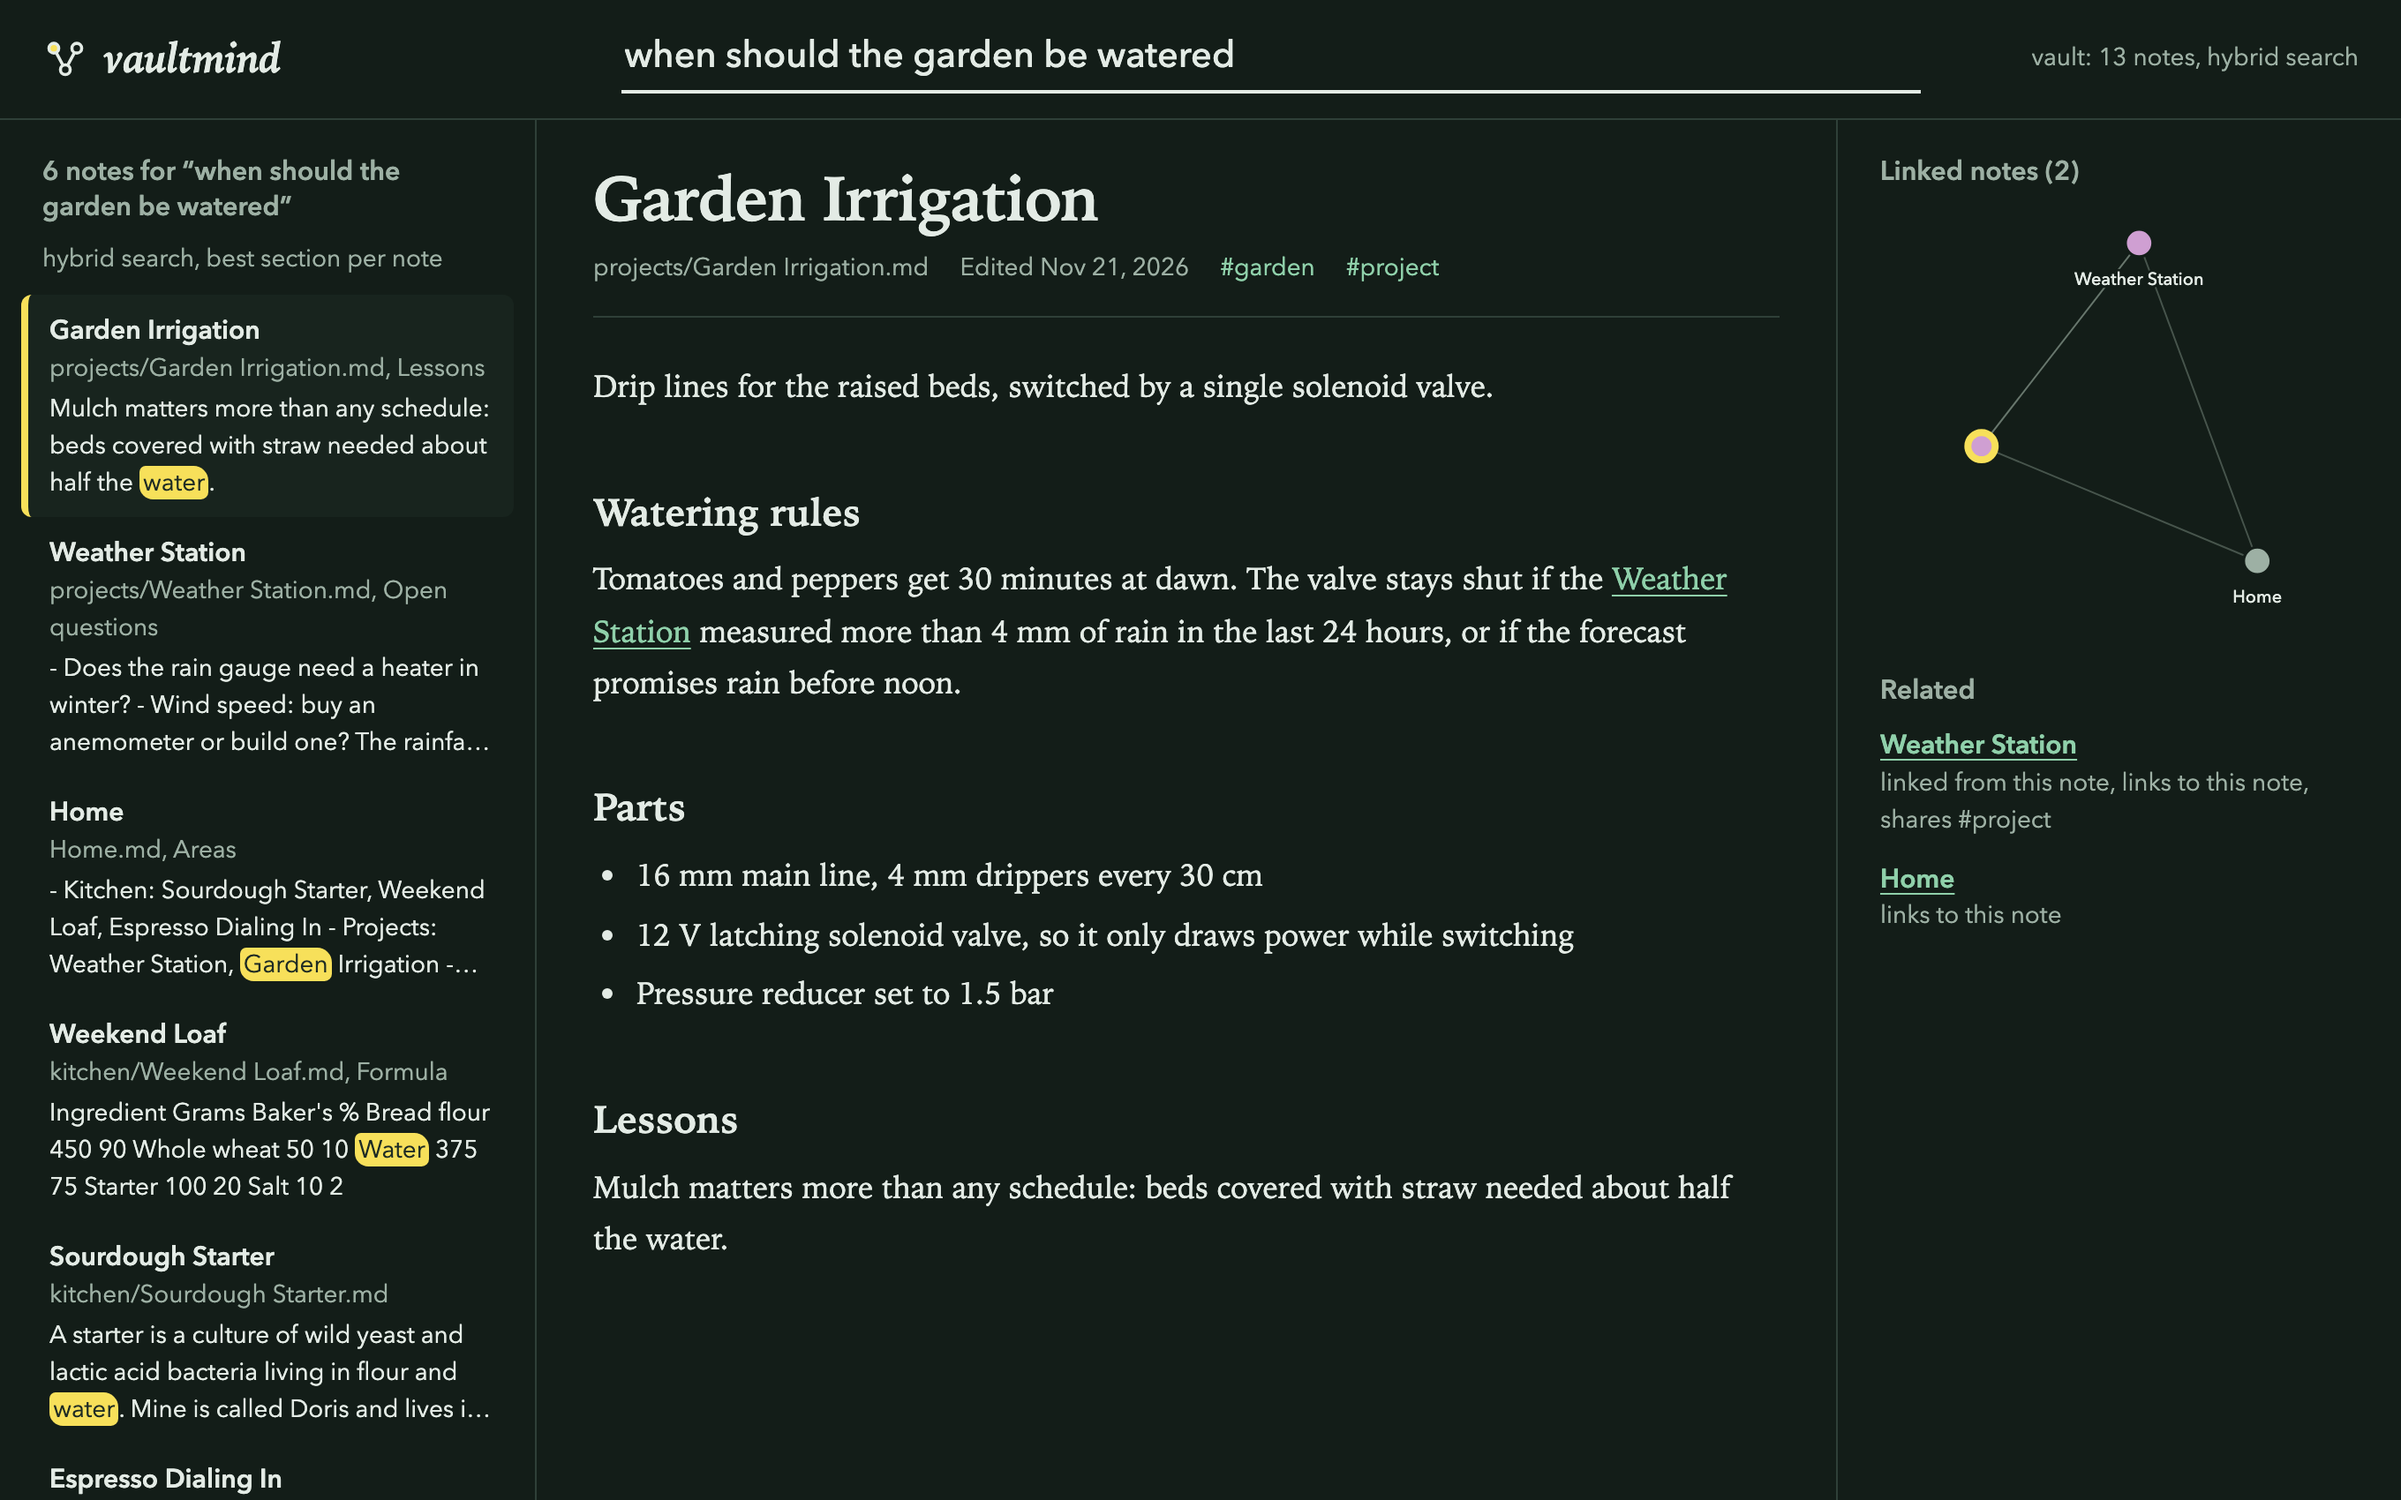
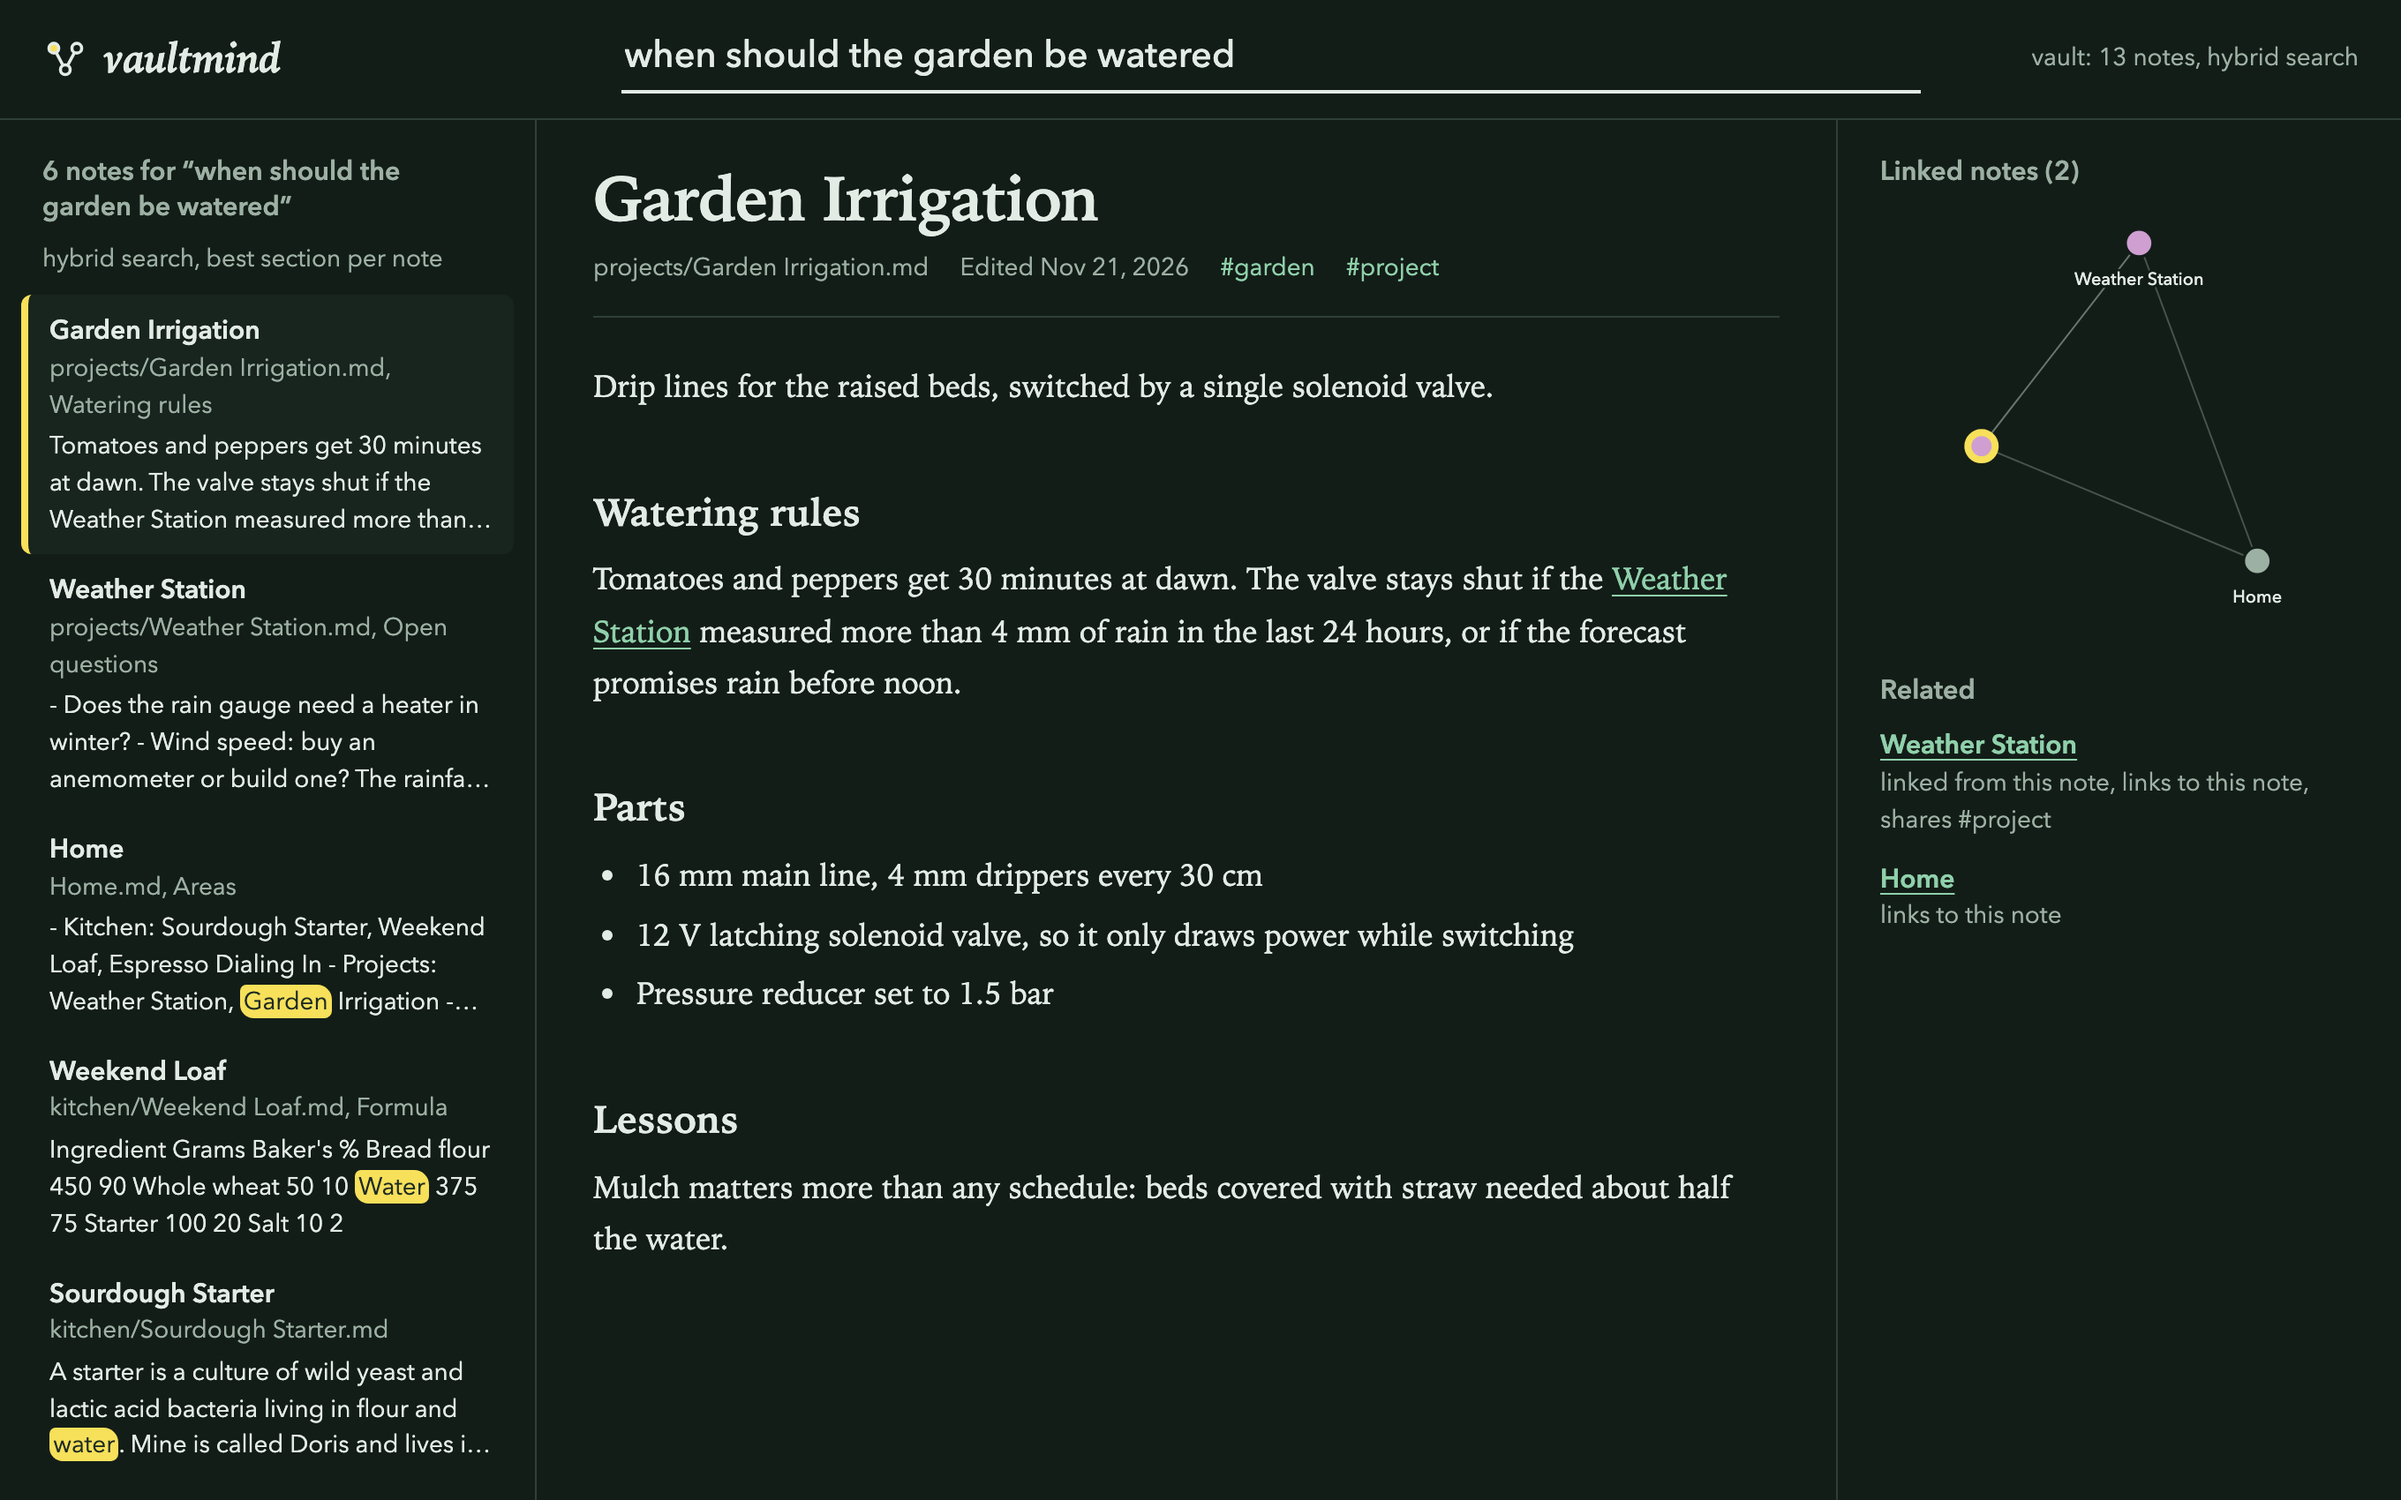
Break rank-fusion ties toward meaning; sync lockfile; clearer messages

Changed region(s): [[0.0, 0.2494, 0.2188, 0.9976]]

diff --git a/src/search.ts b/src/search.ts
@@ -112,12 +112,16 @@ export async function search(db: Db, query: string, options: SearchOptions = {})
   const { mode = "auto", limit = 10, offset = 0, prefix = false, embedder } = options;
   const semanticReady = Boolean(embedder) && hasEmbeddings(db);
   if (mode === "semantic" && !semanticReady) {
-    throw new Error("Semantic search is unavailable: the index has no embeddings. Run `vaultmind index` without --no-embed, or use keyword mode.");
+    throw new Error(
+      "Semantic search is unavailable right now: the embedding model is not loaded or the index has no embeddings yet. " +
+        'Use mode "auto" or "keyword", or run `vaultmind index` without --no-embed.',
+    );
   }
   const used: SearchResult["mode"] = mode === "semantic" ? "semantic" : mode === "auto" && semanticReady ? "hybrid" : "keyword";
+  // Semantic first: when two sections tie after fusion, the one closer in meaning wins.
   const lists: Candidate[][] = [];
-  if (used !== "semantic") lists.push(keywordCandidates(db, query, prefix));
   if (used !== "keyword") lists.push(await semanticCandidates(db, query, embedder!));
+  if (used !== "semantic") lists.push(keywordCandidates(db, query, prefix));
 
   const fused = new Map<number, { score: number; snippet?: string }>();
   for (const list of lists) {

diff --git a/test/index.test.ts b/test/index.test.ts
@@ -110,7 +110,7 @@ test("user input is never interpreted as FTS5 syntax", async () => {
 
 test("semantic mode needs embeddings; with them, auto becomes hybrid", async () => {
   const { dir, db } = indexed();
-  await assert.rejects(search(db, "bread", { mode: "semantic", embedder: fakeEmbedder }), /no embeddings/);
+  await assert.rejects(search(db, "bread", { mode: "semantic", embedder: fakeEmbedder }), /Semantic search is unavailable/);
 
   assert.equal(await embedPending(db, fakeEmbedder), stats(db).chunks);
   assert.equal(stats(db).embedded, stats(db).chunks);

diff --git a/test/mcp.test.ts b/test/mcp.test.ts
@@ -83,5 +83,5 @@ test("bad input comes back as a tool error the model can act on", async () => {
   assert.equal(invalid.isError, true);
   const semantic = await client.callTool({ name: "search_notes", arguments: { query: "bread", mode: "semantic" } });
   assert.equal(semantic.isError, true);
-  assert.match(text(semantic), /no embeddings/);
+  assert.match(text(semantic), /Semantic search is unavailable/);
 });

diff --git a/README.md b/README.md
@@ -56,7 +56,9 @@ Claude Desktop (`claude_desktop_config.json`):
 | `related_notes` | Lists notes connected to a note, with the reasons: links in either direction, shared tags, similar content. |
 | `recent_notes` | Lists the most recently modified notes. |
 
-All four are read-only. Each takes `response_format: "markdown" | "json"`. The server indexes the vault when it starts and picks up edits while it runs (it rescans at most every 30 seconds, on the next tool call).
+All four are read-only. Each takes `response_format: "markdown" | "json"`. The server indexes the vault when it starts and picks up edits while it runs (it rescans at most every 30 seconds, on the next tool call). On a first run with a large vault, search answers by keyword until the embeddings are ready; run `index` beforehand to avoid the wait.
+
+The tools hand note text to the model as written. If your vault holds clipped web pages, their text reaches the model too.
 
 ## Features
 
